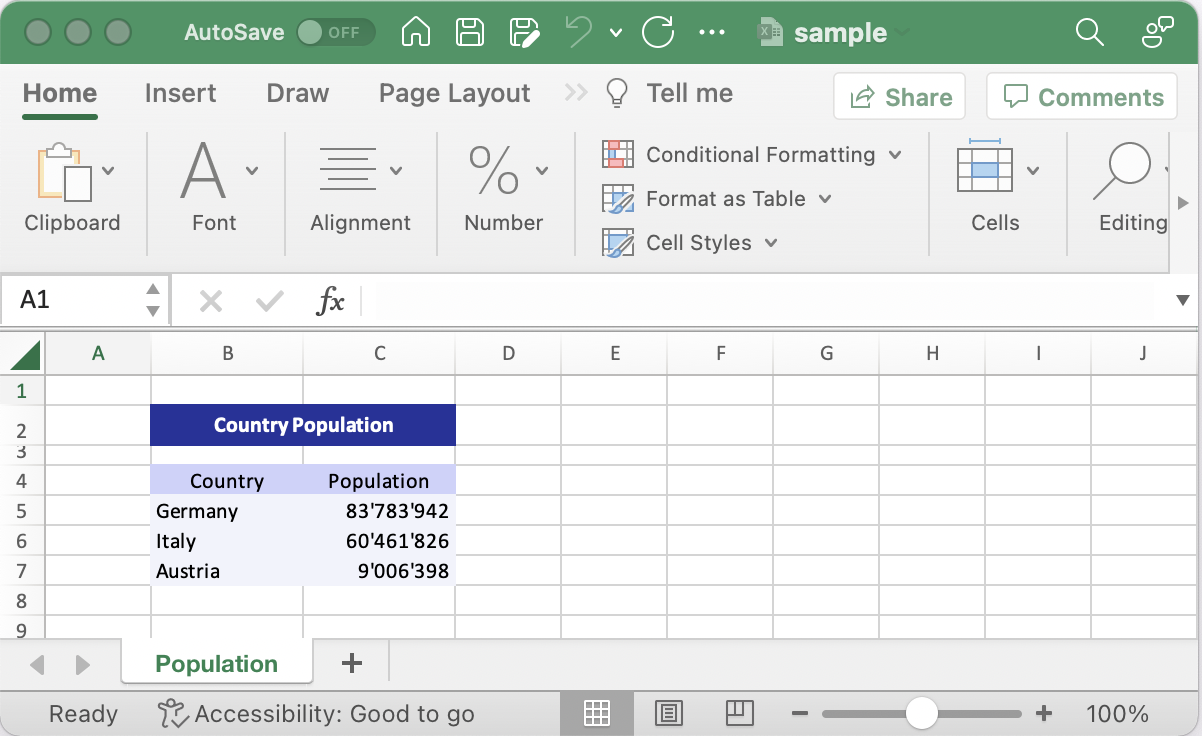
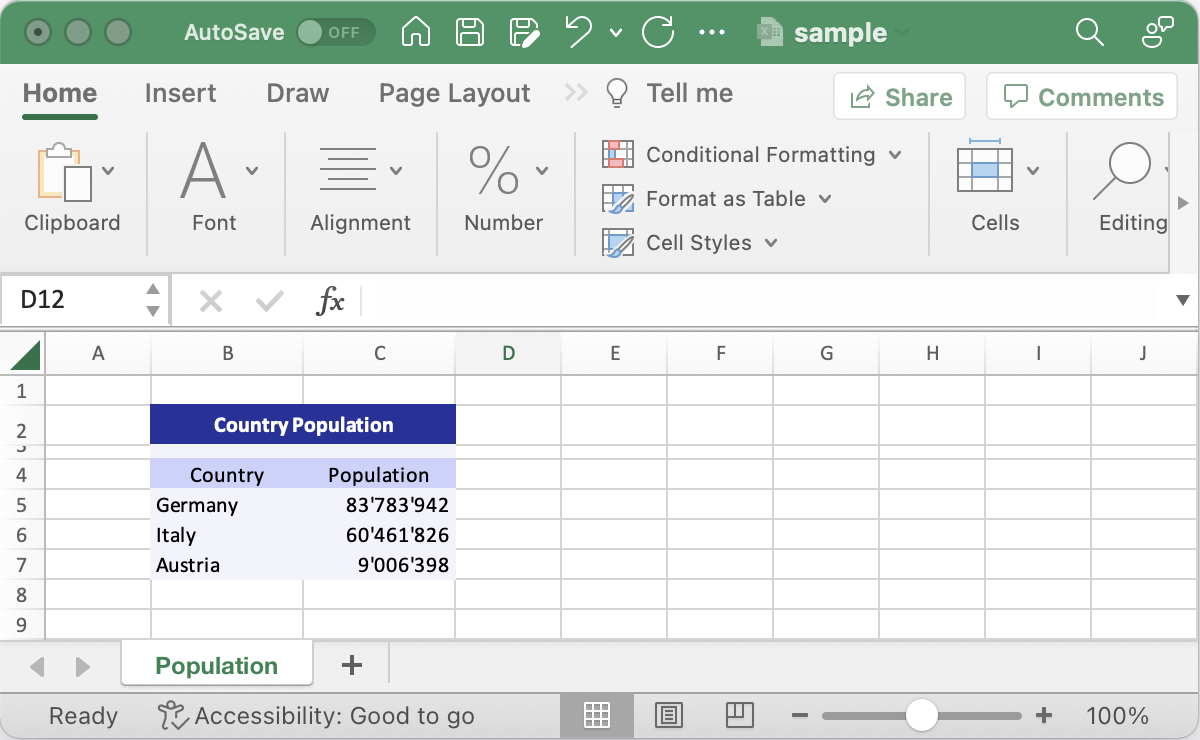
improved excel readme

diff --git a/doc/readme/excel.md b/doc/readme/excel.md
@@ -1,12 +1,14 @@
 # Excel
 
-Venice supports generating Excel files if the [Apache POI](https://poi.apache.org/) 
-libs are on the runtime classpath.
+Venice supports reading and writing Excel files if the
+[Apache POI](https://poi.apache.org/) libraries are on the runtime 
+classpath.
 
 Venice is compatible with Apache POI 4.1.x and 5.2.x.
 
 
-Run this script from the REPL to download the newest Apache POI 5.2.x libraries:
+Run this script from the REPL to download the newest Apache POI 5.2.x 
+libraries:
 
 ```clojure
 (do
@@ -585,12 +587,14 @@ Available border styles:
                                          :bg-color "#f2f3fc" })
 
     (excel/row-height sheet 2 20)
-    (excel/row-height sheet 3 10)
+    (excel/row-height sheet 3 7)
     (excel/column-width sheet 2 70)
     (excel/column-width sheet 3 70)    
     (excel/add-merge-region sheet 2 2 2 3)
     
     (excel/write-value sheet 2 2 "Country Population" :title)
+    (excel/write-value sheet 3 2 "" :country)
+    (excel/write-value sheet 3 3 "" :population)
     (excel/write-value sheet 4 2 "Country" :subtitle)
     (excel/write-value sheet 4 3 "Population" :subtitle)
     (excel/write-value sheet 5 2 "Germany" :country)
